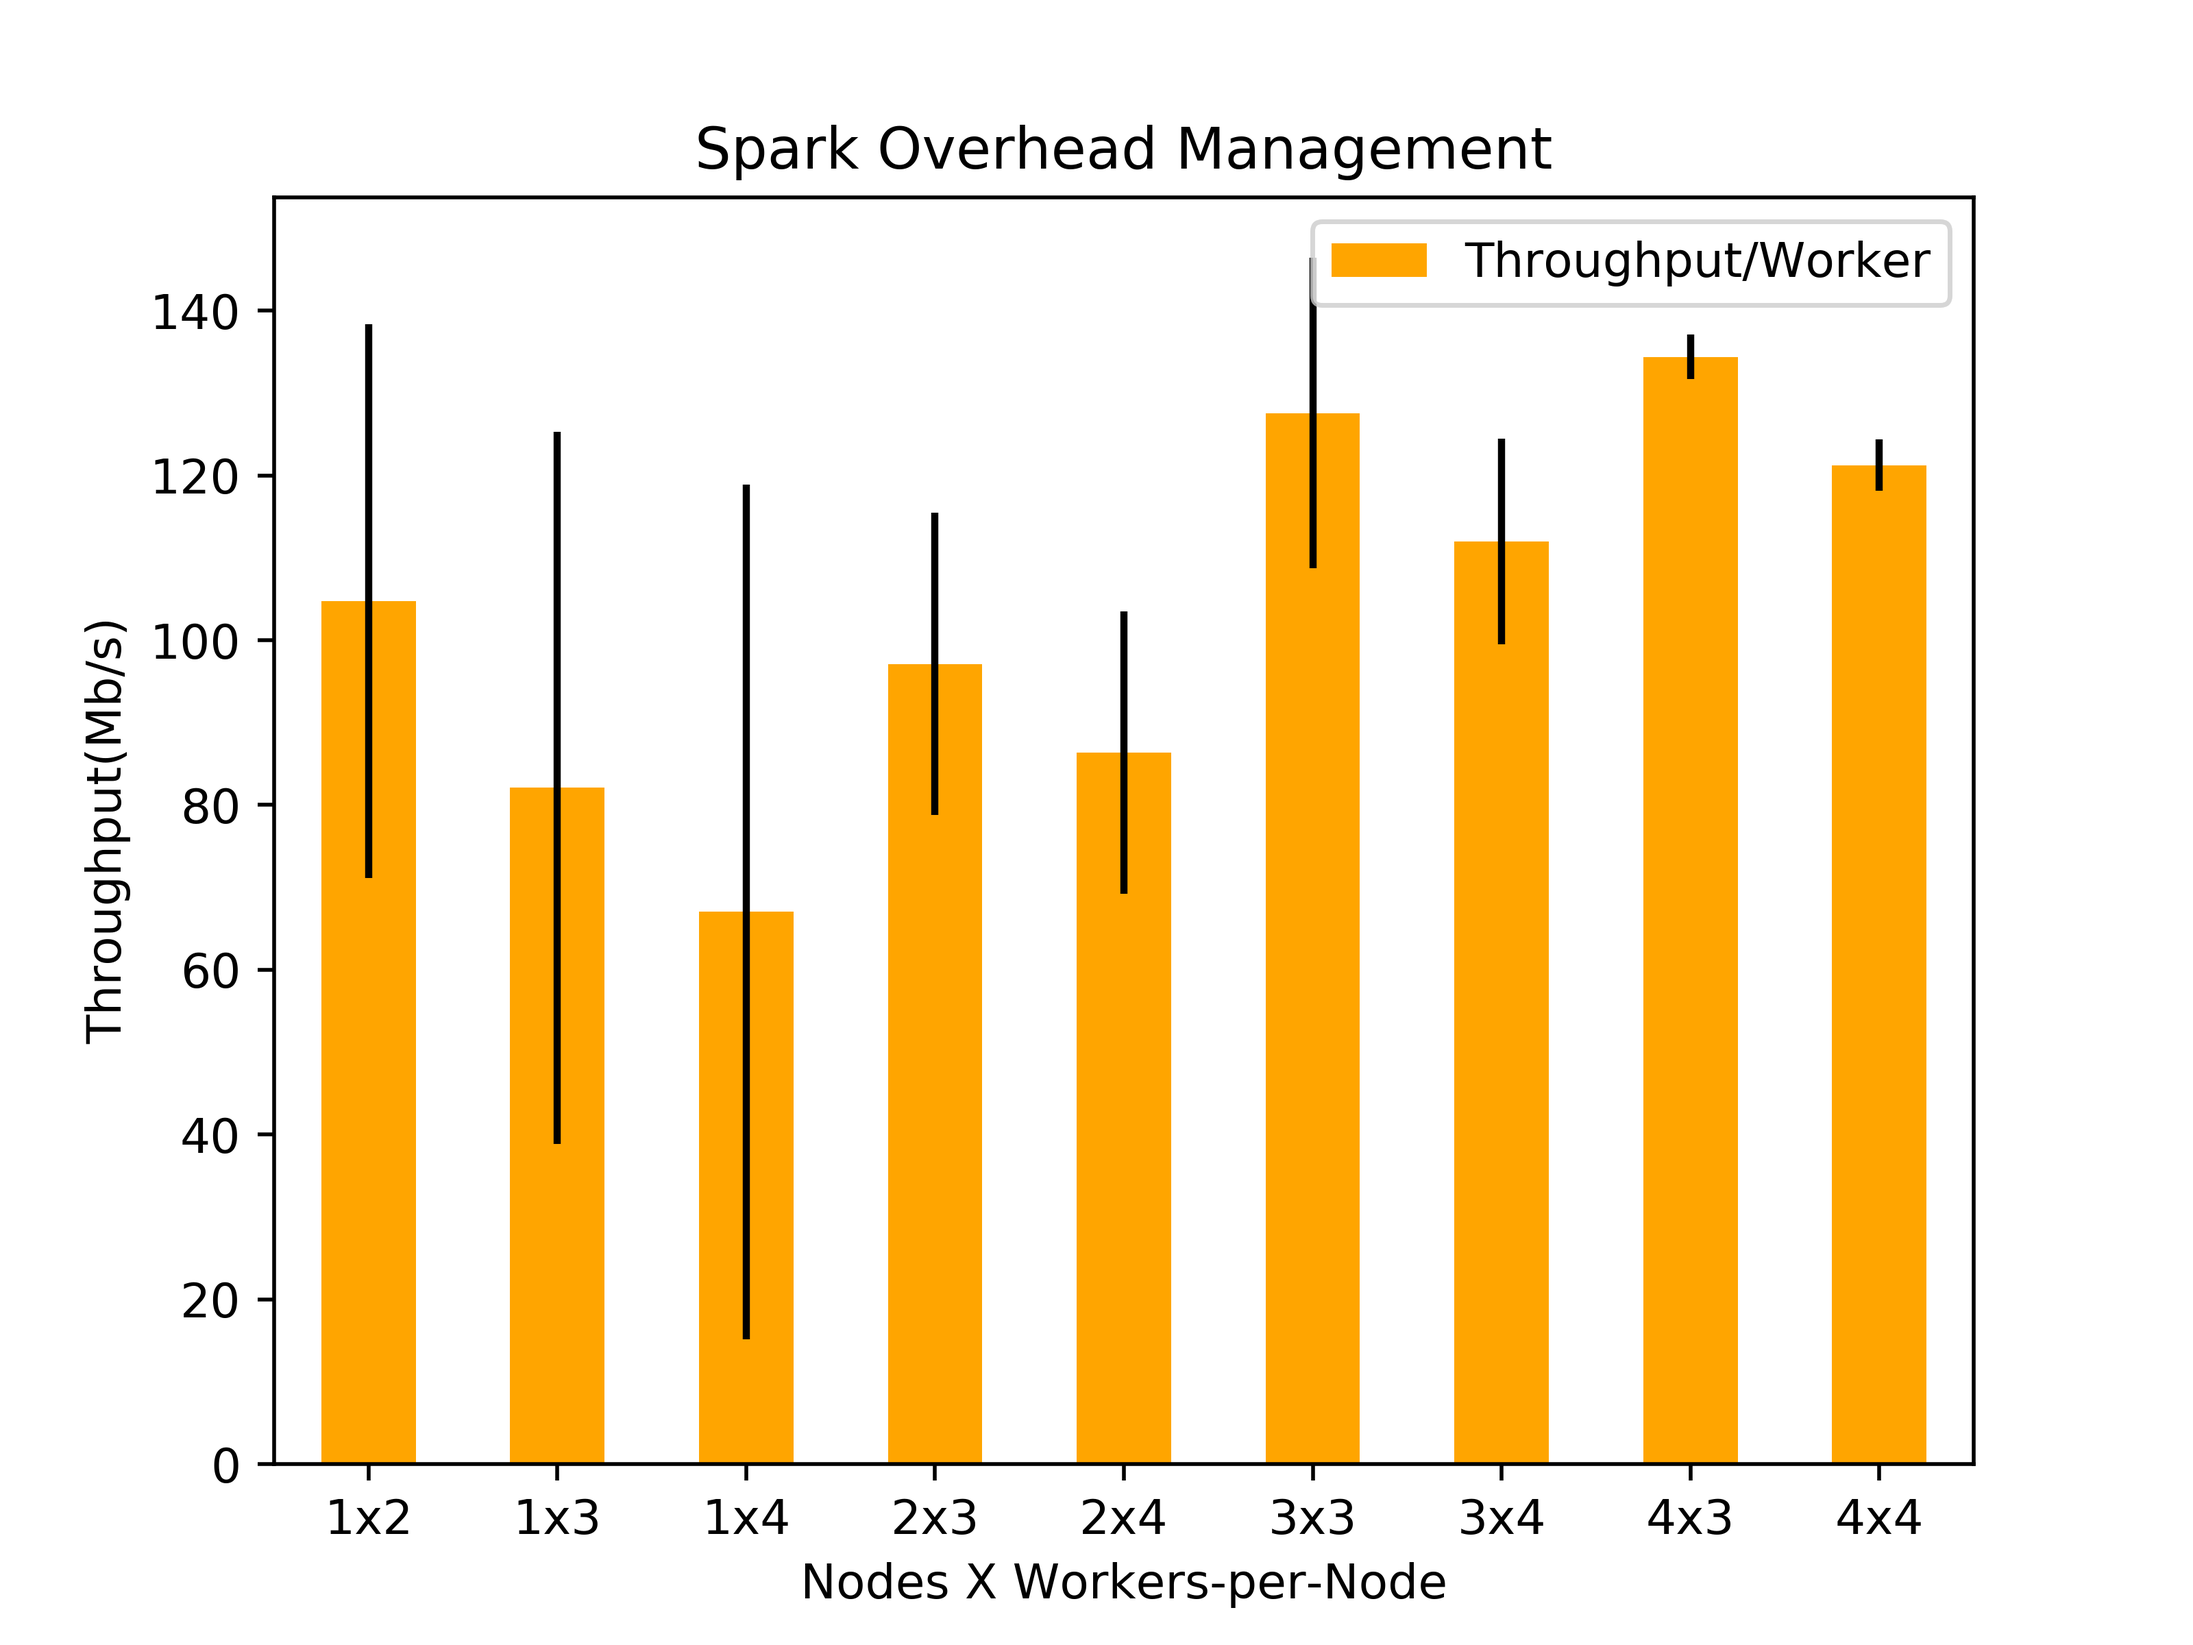
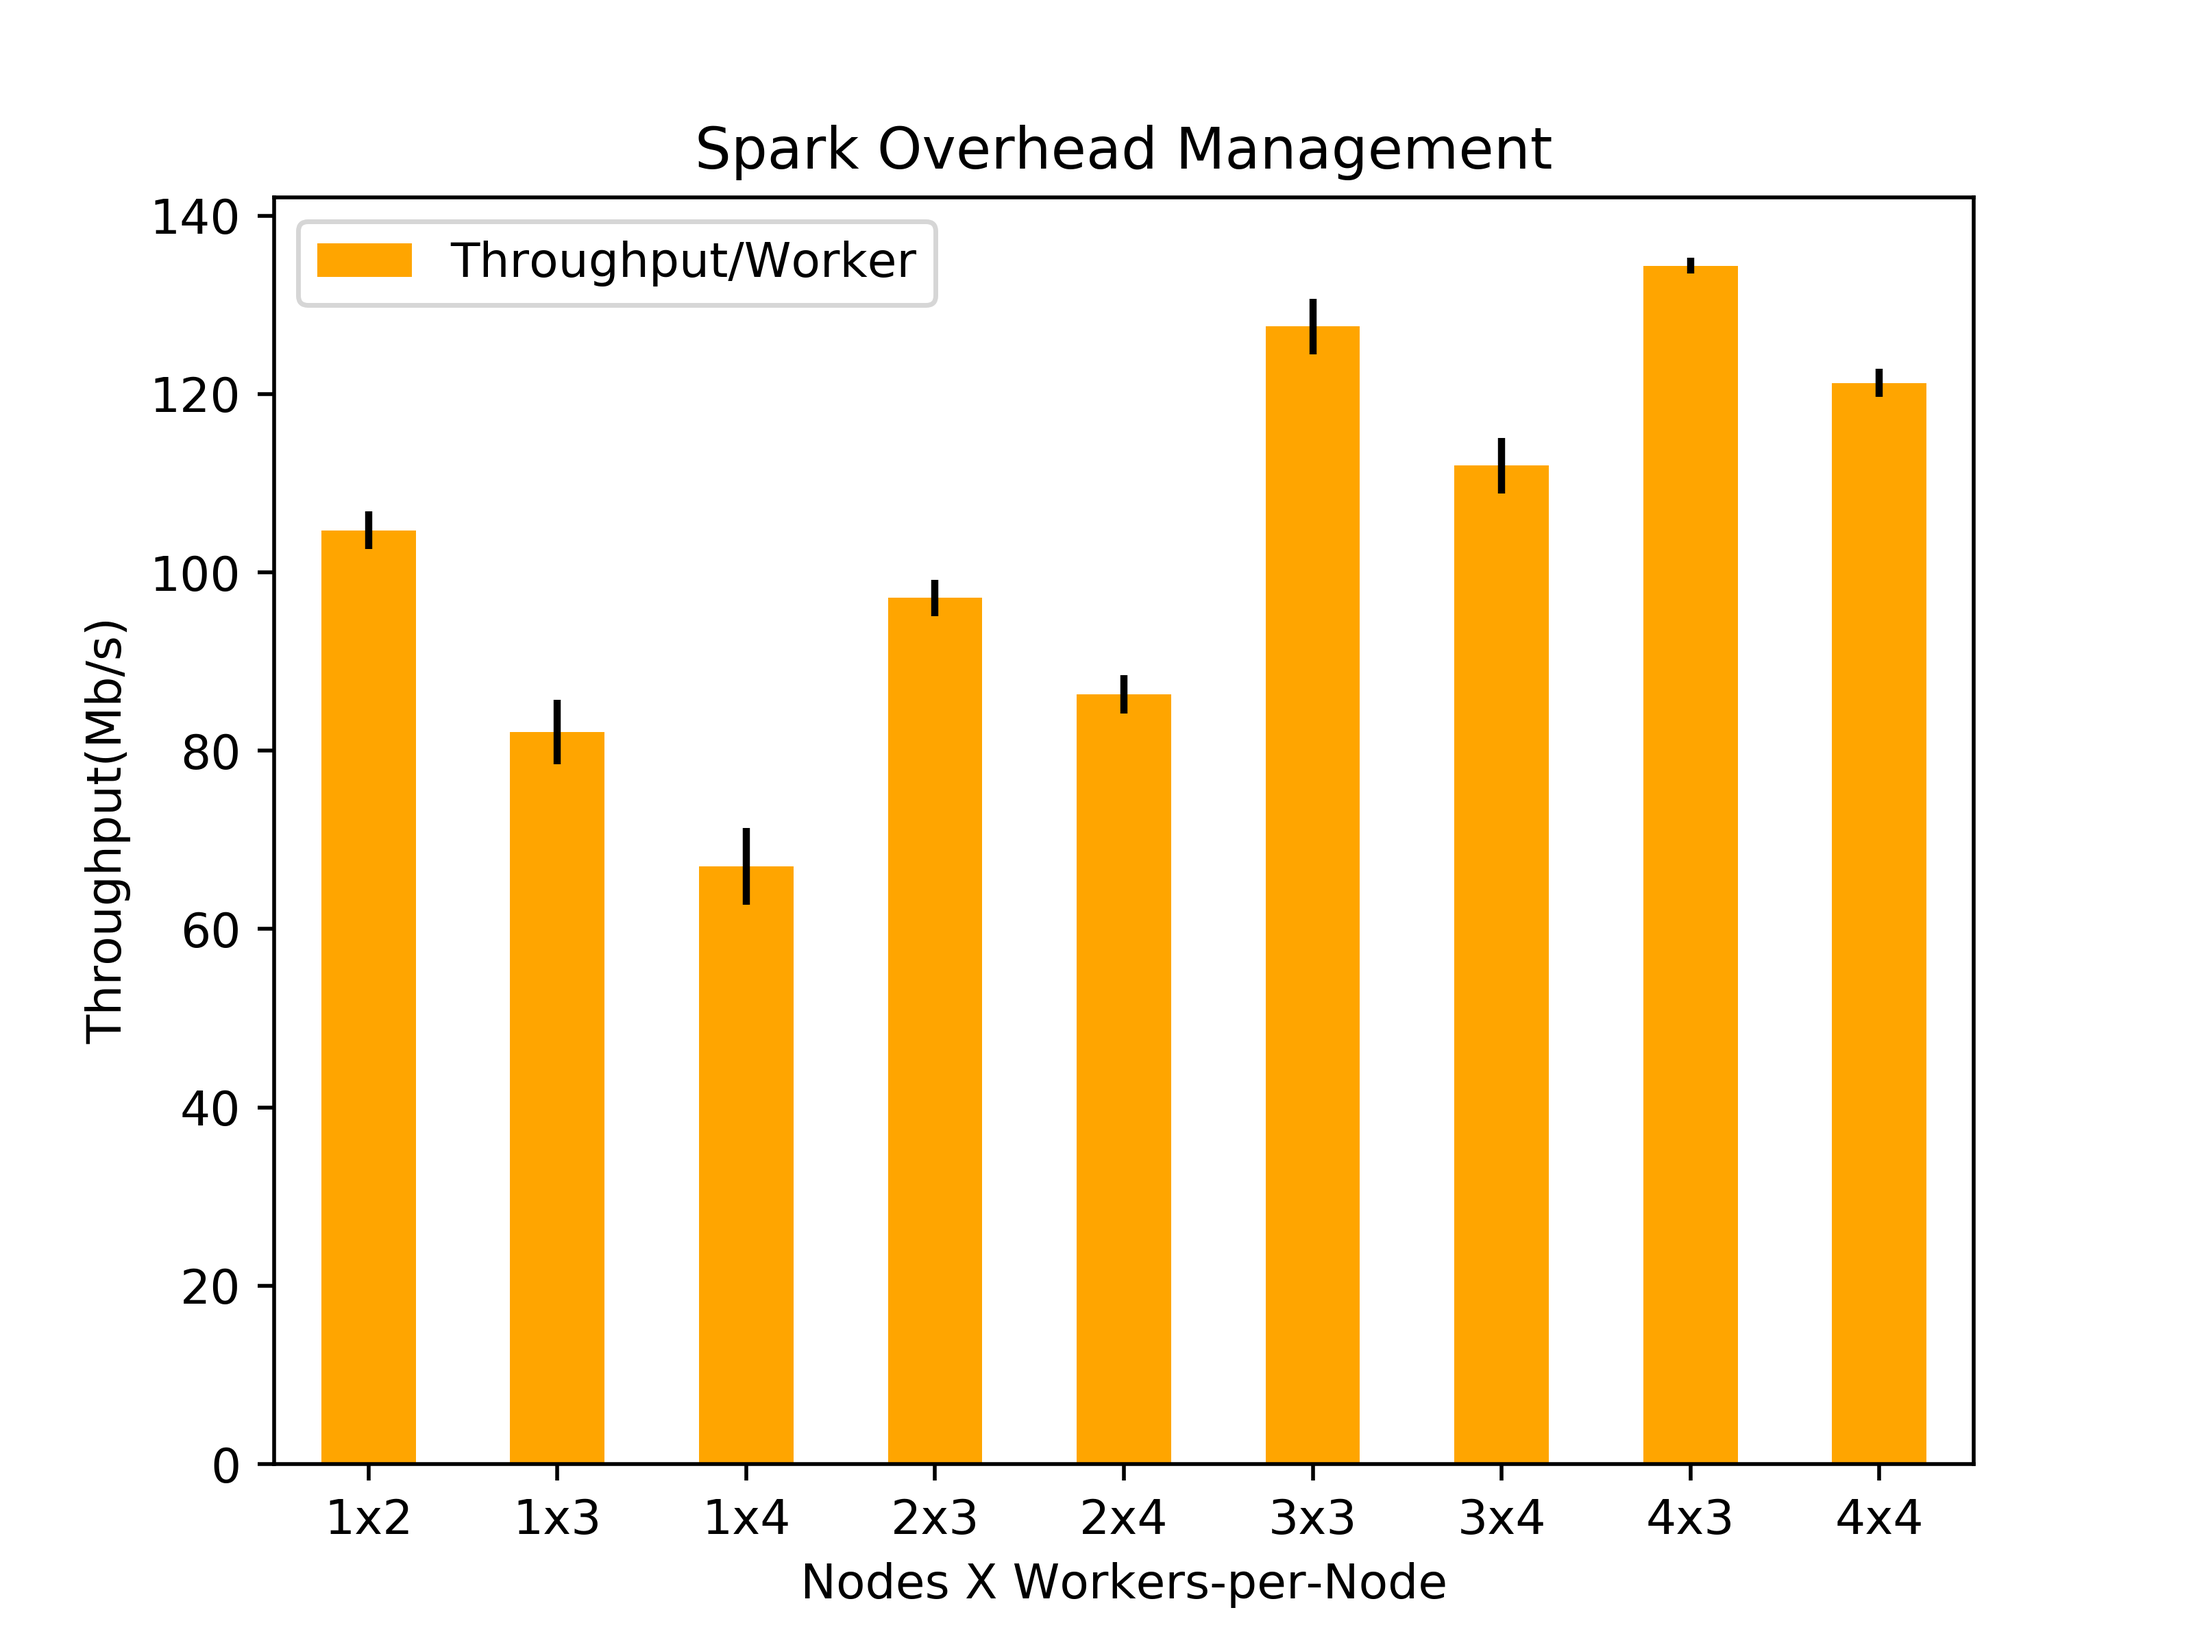
Throughput std calculation fix

diff --git a/Spark-Terasort/time-extractor.py b/Spark-Terasort/time-extractor.py
@@ -54,25 +54,23 @@ def data_plot():
     df = pd.read_csv(DATAFILENAME, sep=',', header=None)
     #average = df.groupby(1)[2].mean()
     average = df.groupby(1, as_index=False).agg({2: "mean"})
-
+    std = df.groupby(1, as_index=False).agg({2: "std"})
     length = average[1].count()
-    x=[]
-    y=[]
+    x = []
     for i in range(length):
         x.append(average[1][i])
-        y.append(average[2][i])
-    plt.plot(x, y, '-')
-    plt.xticks(x, rotation='horizontal')
-    plt.title("TeraSort Computation Times")
-    plt.xlabel("Nodes x Workers-per-Node")
+    plt.bar(average.index, average[2], width=0.35, yerr=std[2])
+    plt.xticks(average.index, x, rotation='horizontal')
+    plt.title("Spark TeraSort")
+    plt.xlabel("Nodes X Workers-per-Node")
     plt.ylabel("Elapsed Time(s)")
-    #plt.legend(legend_list, loc='upper right')
     dir = "./plots"
-    plot_name = "spark-terasort.png"
+    plot_name = "spark_runtime.png"
     filepath = os.path.join(dir, plot_name)
     plt.savefig(filepath, dpi=500)
     plt.show()
     plt.clf()
+
 
 
 def io_rate_plot():
@@ -101,6 +99,7 @@ def throughput():
     DataInMB = 102400
     df = pd.read_csv(DATAFILENAME, sep=',', header=None)
     average = df.groupby(1, as_index=False).agg({2: "mean", 3: "mean"})
+    nWorkers = [2, 3, 4, 6, 8, 9, 12, 12, 16]
     std = df.groupby(1, as_index=False).agg({2: "std"})
     length = average[1].count()
     x = []
@@ -135,8 +134,9 @@ def throughput_per_worker():
     average[2] = average[2]/nWorkers
     average[3] = average[3].apply(lambda x: DataInMB/x)
     std = df.groupby(1, as_index=False).agg({2: "std"})
+    nWorkers.reverse()
     #average.plot(y=[2, 3], kind='bar', label=["Job", "ResultStage"])
-    average.plot(y=[2],kind='bar', color="orange", label=["Throughput/Worker"], yerr=std[2])
+    average.plot(y=[2],kind='bar', color="orange", label=["Throughput/Worker"], yerr=std[2]/nWorkers)
     plt.xlabel("Nodes X Workers-per-Node")
     plt.ylabel("Throughput(Mb/s)")
     plt.title("Spark Overhead Management")
@@ -295,9 +295,10 @@ def lscratchVSirisgpfs_plot():
     plt.show()
 
 
+
 if __name__ == '__main__':
     # data_generate()
-    # data_plot()
+    data_plot()
     # statistics()
     # io_rate_plot()
     # throughput()
@@ -305,5 +306,5 @@ if __name__ == '__main__':
     # throughput_per_worker()
     # lag()
     # sort_merge()
-    lscratchVSirisgpfsGenerate()
-    lscratchVSirisgpfs_plot()
+    # lscratchVSirisgpfsGenerate()
+    # lscratchVSirisgpfs_plot()
